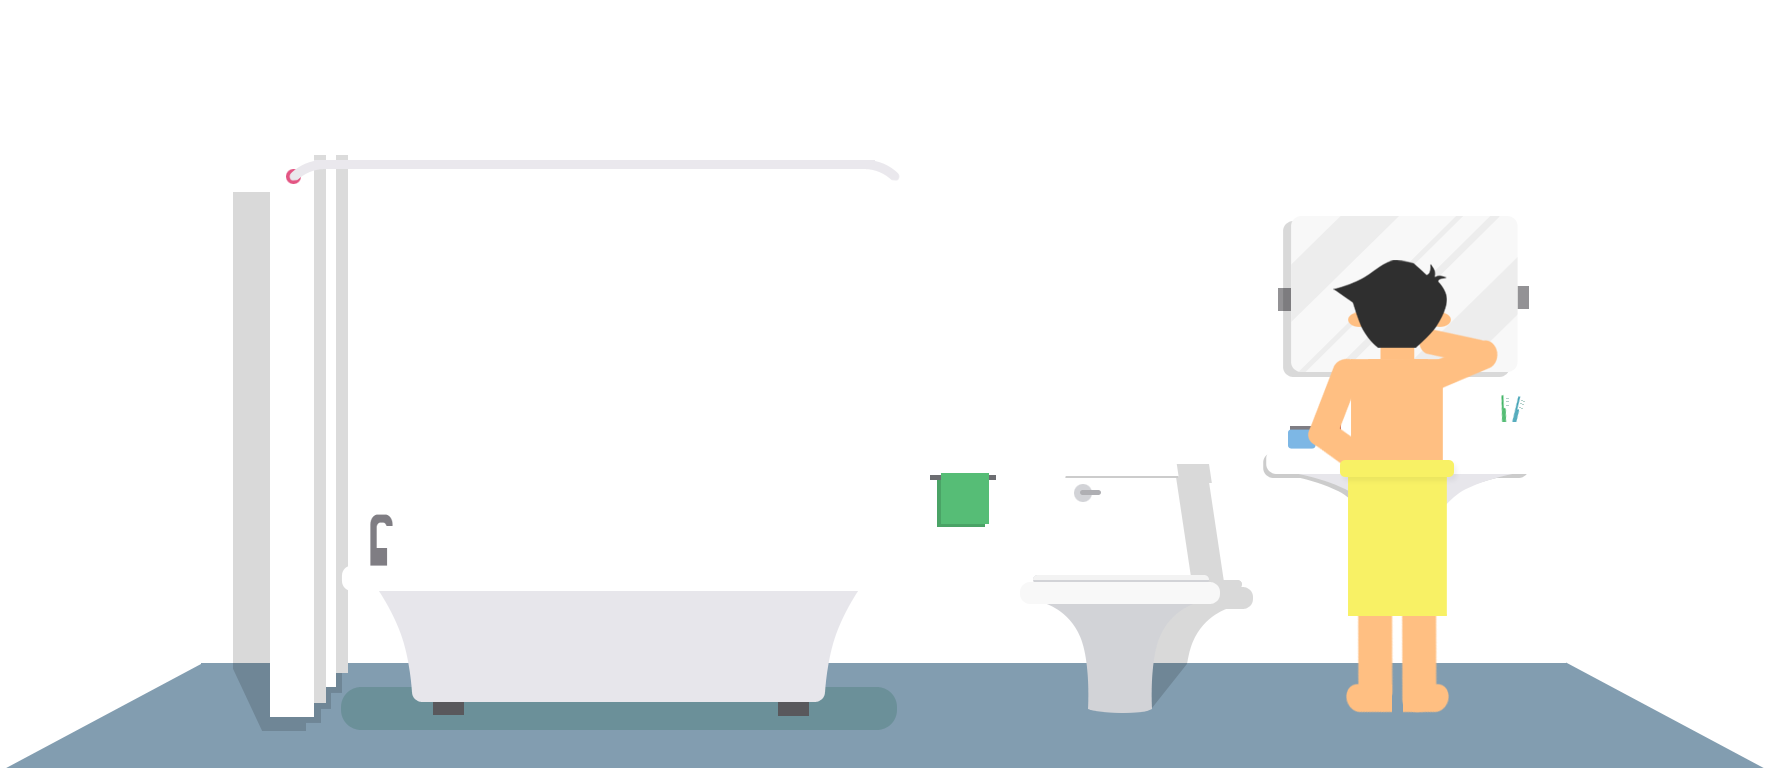
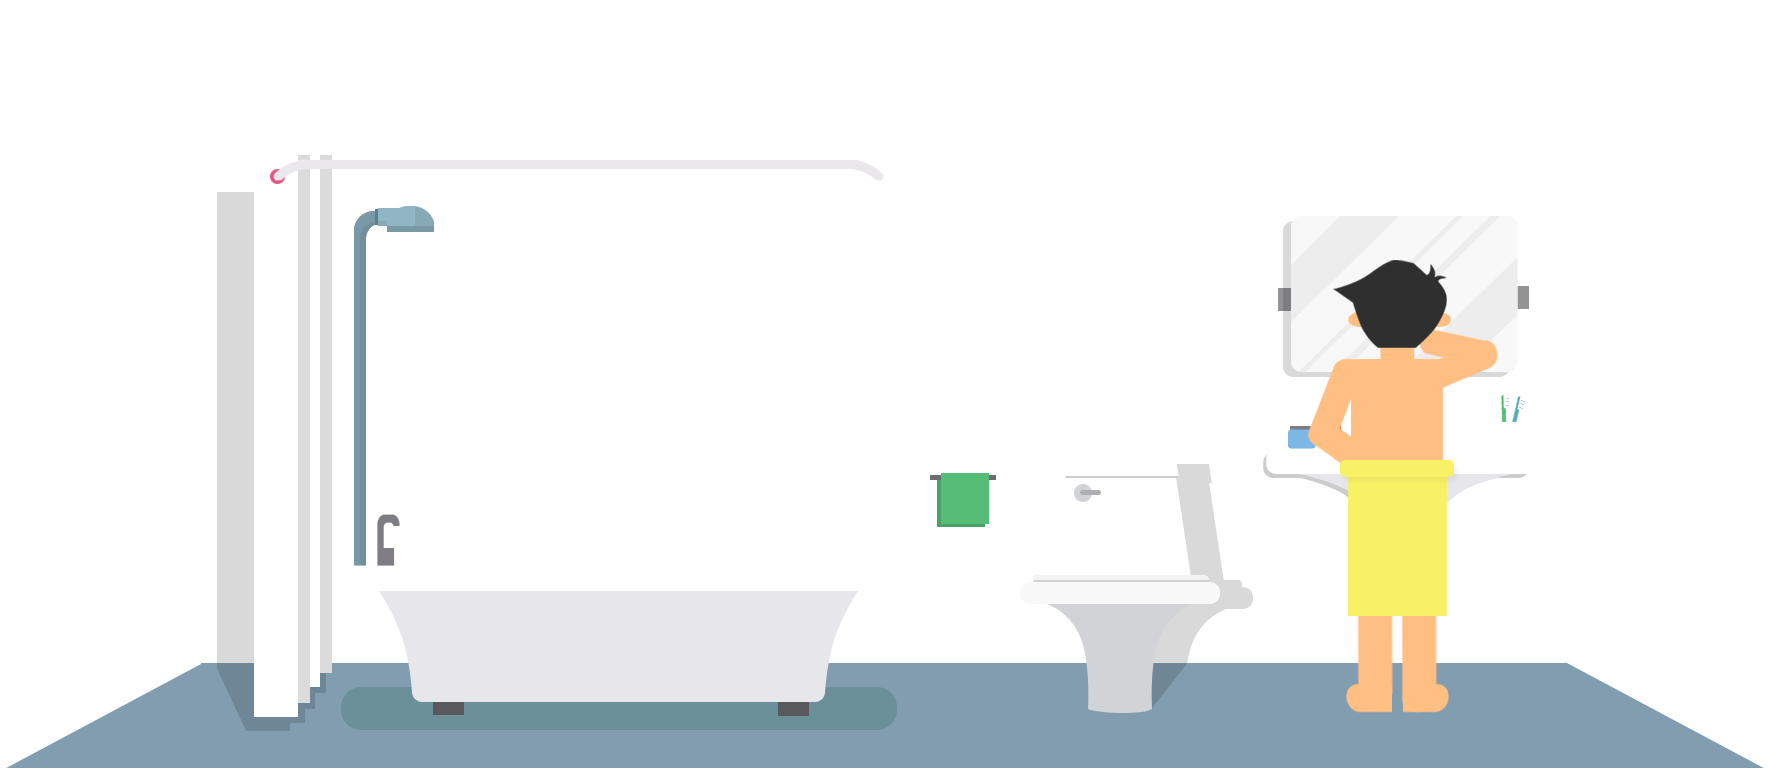
add shower

Changed region(s): [[0.1244, 0.2188, 0.2489, 0.9688]]

diff --git a/assets/css/own-animate.css b/assets/css/own-animate.css
@@ -970,6 +970,57 @@ body{
 }
 
 
+/*-----------------------------------shower-----------------------------------*/
+.shower-frame{
+  width: 47px;
+  height: 360px;
+  top: 206px;
+  margin-left: 72px;
+  position: absolute;
+  overflow: hidden;
+}
+
+.shower{
+  background: url("../images/shower.png") no-repeat;
+  position: absolute;
+  width: 47px;
+  height: 26px;
+}
+.water{
+  margin-top: 5px;
+  width: 5px;
+  height: 8px;
+  position: absolute;
+  background: #fff;
+  border-radius: 50%;
+  opacity: 0.5;
+  animation-timing-function: linear;
+}
+
+.drop1{
+  margin-left: 5px;
+  animation: water 1.5s 0s infinite;
+}
+
+.drop2{
+  margin-left: 10px;
+  animation: water 1.5s 1s infinite;
+}
+
+.drop3{
+  margin-left: 15px;
+  animation: water 1.5s 2s infinite;
+}
+
+@keyframes water{
+  0%{
+    margin-top:10px;
+  }
+
+  100%{
+    margin-top:400px;
+  }
+}
 
 
 
@@ -1013,6 +1064,10 @@ body{
   }
   .pan{
     margin-left: -140px;
+  }
+
+  .shower-frame{
+    margin-left: -30px;
   }
 }
 
@@ -1068,6 +1123,10 @@ body{
     display: none;
   }
   .pan{
+    display: none;
+  }
+
+  .shower-frame{
     display: none;
   }
 }

diff --git a/application/views/home/homepage/contact.php b/application/views/home/homepage/contact.php
@@ -3,6 +3,15 @@
     <section class="contact" id="contact">
        <div class="background_contact">
       <div class="container"> 
+
+        <div class="shower-frame">
+          <div class="water drop1"></div>
+          <div class="water drop2"></div>
+          <div class="water drop3"></div>
+          <div class="shower"></div>
+          
+        </div>
+
         <div class="title text-center wow animated fadeInDown"><h1>Contact <strong>ME</strong></h1></div> 
         <div class="description wow animated fadeInUp">
           <p>

diff --git a/application/views/home/index.php b/application/views/home/index.php
@@ -2,13 +2,13 @@
 
 include 'homepage/style_config.php';
 include 'homepage/navbar.php';
-// include 'homepage/banner.php';
-//include 'homepage/about.php';
-// include 'homepage/service.php';
-//include 'homepage/portofolio_new.php';
+include 'homepage/banner.php';
+include 'homepage/about.php';
+include 'homepage/service.php';
+include 'homepage/portofolio_new.php';
 include 'homepage/pricing.php';
-// include 'homepage/contact.php';
-// include 'homepage/footer.php';
+include 'homepage/contact.php';
+include 'homepage/footer.php';
 
 ?>
 
